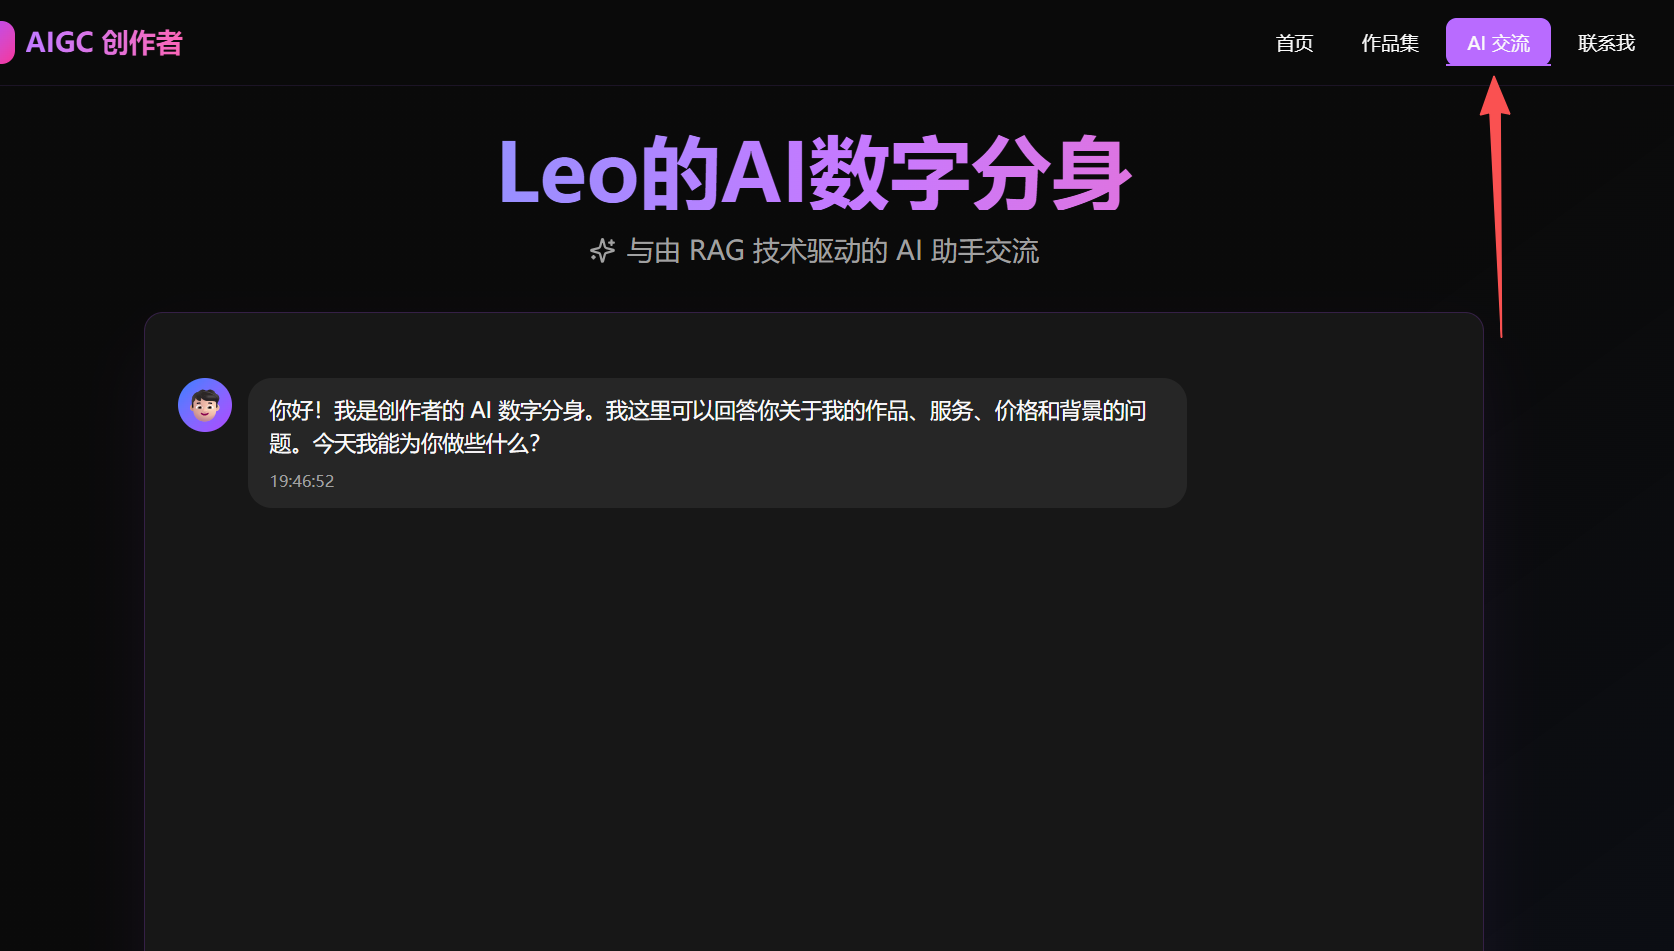
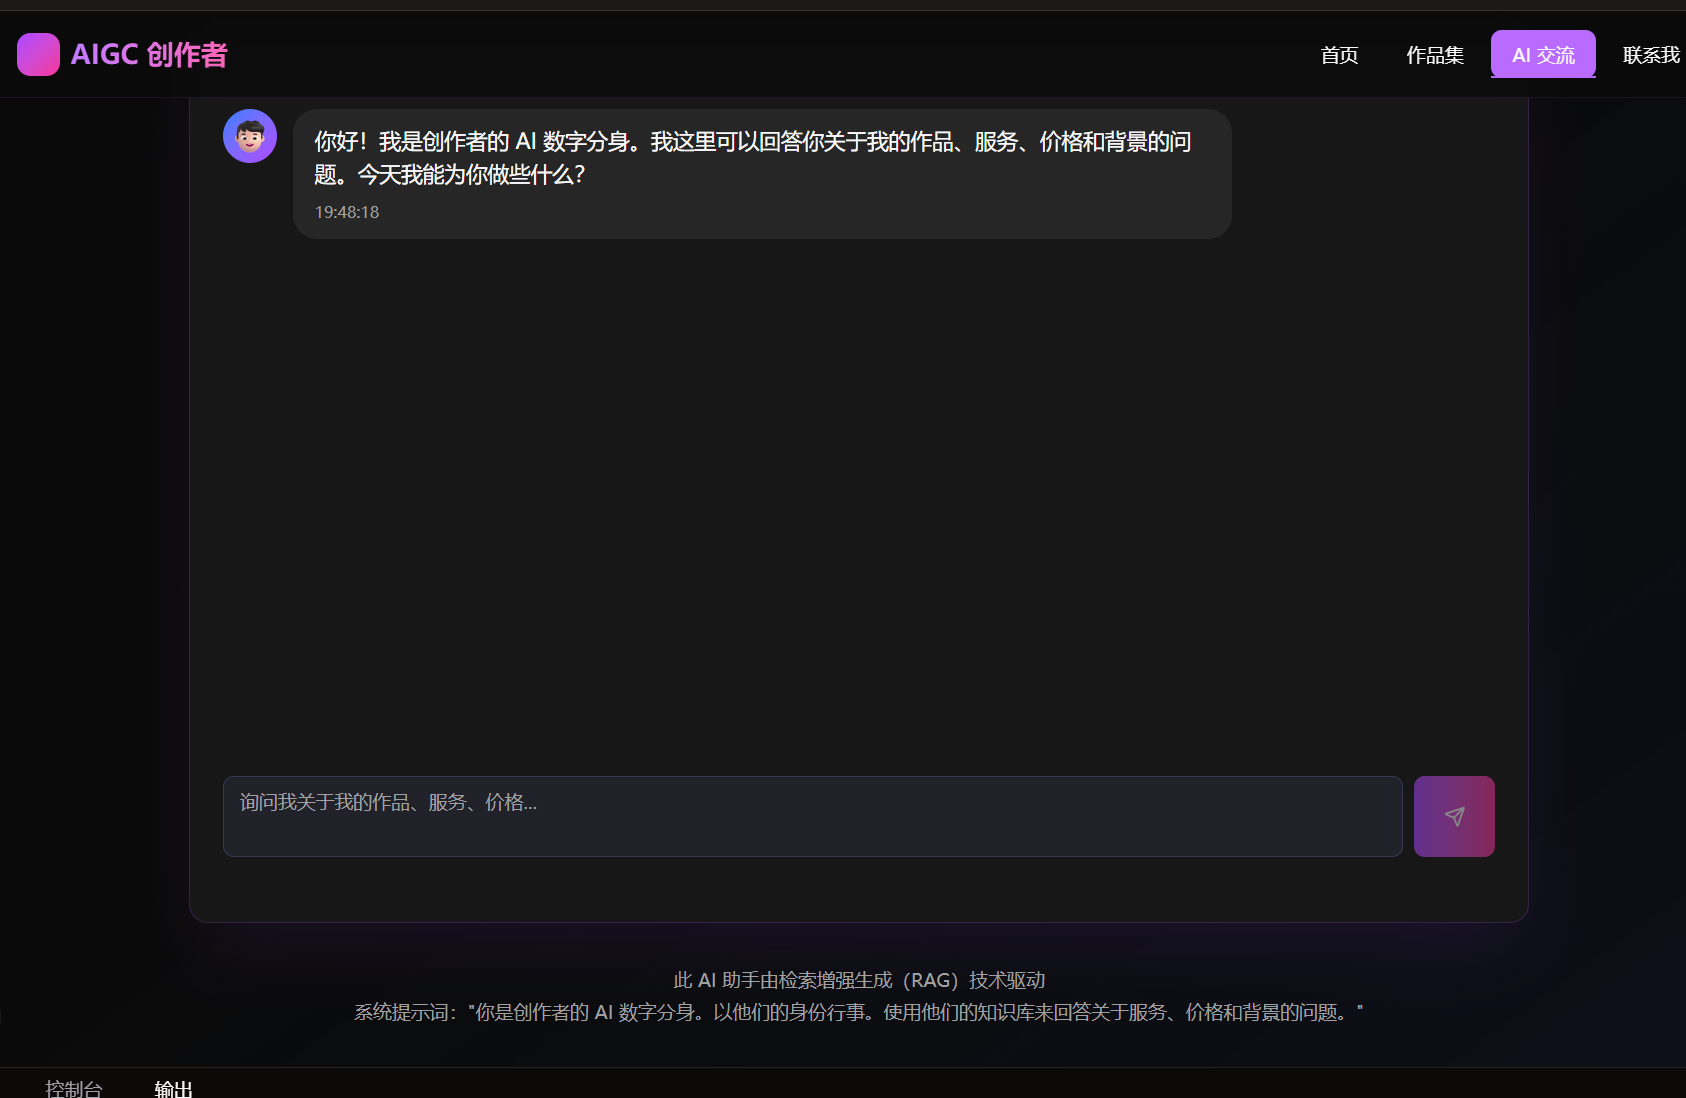
fix: 彻底修复AI交流页面首次加载自动滚动问题

diff --git a/src/app/chat/page.tsx b/src/app/chat/page.tsx
@@ -29,18 +29,25 @@ export default function ChatPage() {
   const [input, setInput] = useState('');
   const [isLoading, setIsLoading] = useState(false);
   const messagesEndRef = useRef<HTMLDivElement>(null);
+  const messagesContainerRef = useRef<HTMLDivElement>(null);
   const isFirstLoad = useRef(true);
+  const initialMessageCount = useRef(1); // 初始有1条消息
 
   const scrollToBottom = () => {
     messagesEndRef.current?.scrollIntoView({ behavior: 'smooth' });
   };
 
   useEffect(() => {
-    // 首次加载不滚动到底部，只有在有新消息时才滚动
-    if (!isFirstLoad.current) {
-      scrollToBottom();
-    } else {
+    // 首次加载时，强制滚动到顶部
+    if (isFirstLoad.current) {
+      messagesContainerRef.current?.scrollTo({ top: 0, behavior: 'auto' });
       isFirstLoad.current = false;
+    } else {
+      // 只有在消息数量增加时才滚动到底部
+      if (messages.length > initialMessageCount.current) {
+        scrollToBottom();
+        initialMessageCount.current = messages.length;
+      }
     }
   }, [messages]);
 
@@ -183,7 +190,7 @@ export default function ChatPage() {
         <Card className="border-purple-500/20 shadow-2xl shadow-purple-500/10">
           <CardContent className="p-6">
             {/* Messages Area */}
-            <div className="h-[60vh] overflow-y-auto mb-6 space-y-4 pr-2">
+            <div ref={messagesContainerRef} className="h-[60vh] overflow-y-auto mb-6 space-y-4 pr-2">
               <AnimatePresence initial={false}>
                 {messages.map((message) => (
                   <motion.div
